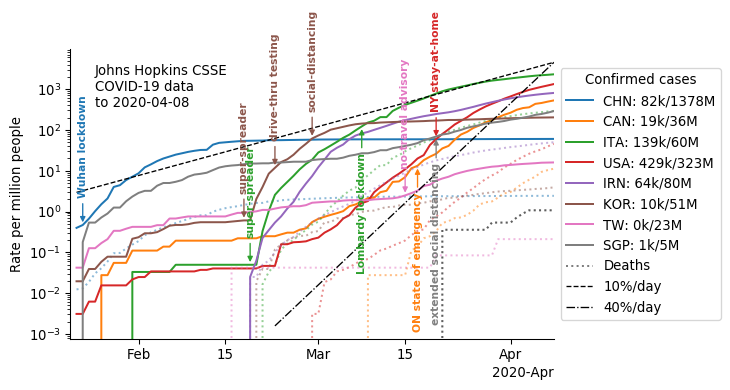
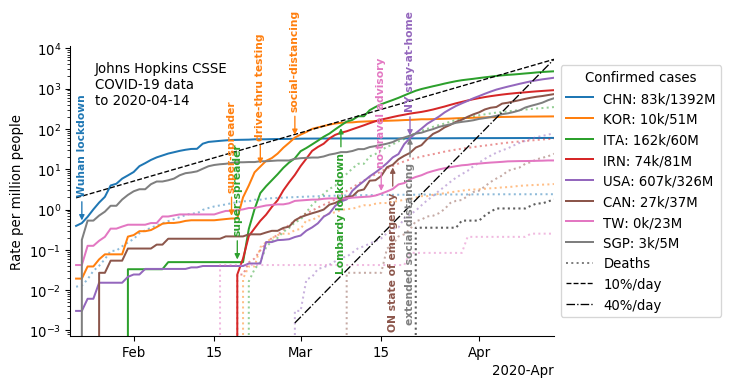
Added plot highlighting Brazil.

diff --git a/visualization/plots.py b/visualization/plots.py
@@ -31,10 +31,12 @@ PROV_POP_CSV = (
     'T=101&SR=1&RPP=25&PR=0&CMA=0&CSD=0&S=50&O=A&Lang=Eng&OFT=CSV')
 
 PLOT_COUNTRIES = [
-    ['China', 'Canada', 'Italy', 'United States', 'Iran', 'South Korea',
+    ['China', 'South Korea', 'Italy', 'Iran', 'United States', 'Canada',
      'Taiwan', 'Singapore'],
-    ['China', 'Canada', 'Italy', 'United Kingdom', 'France', 'Spain',
-     'Sweden', 'Russia'],
+    ['China', 'Italy', 'Spain', 'France', 'United Kingdom', 'Sweden', 'Canada',
+     'Russia'],
+    ['China', 'South Korea', 'Italy', 'Spain', 'United States', 'Canada',
+     'Russia', 'Brazil'],
      ]
 
 RENAME = {
